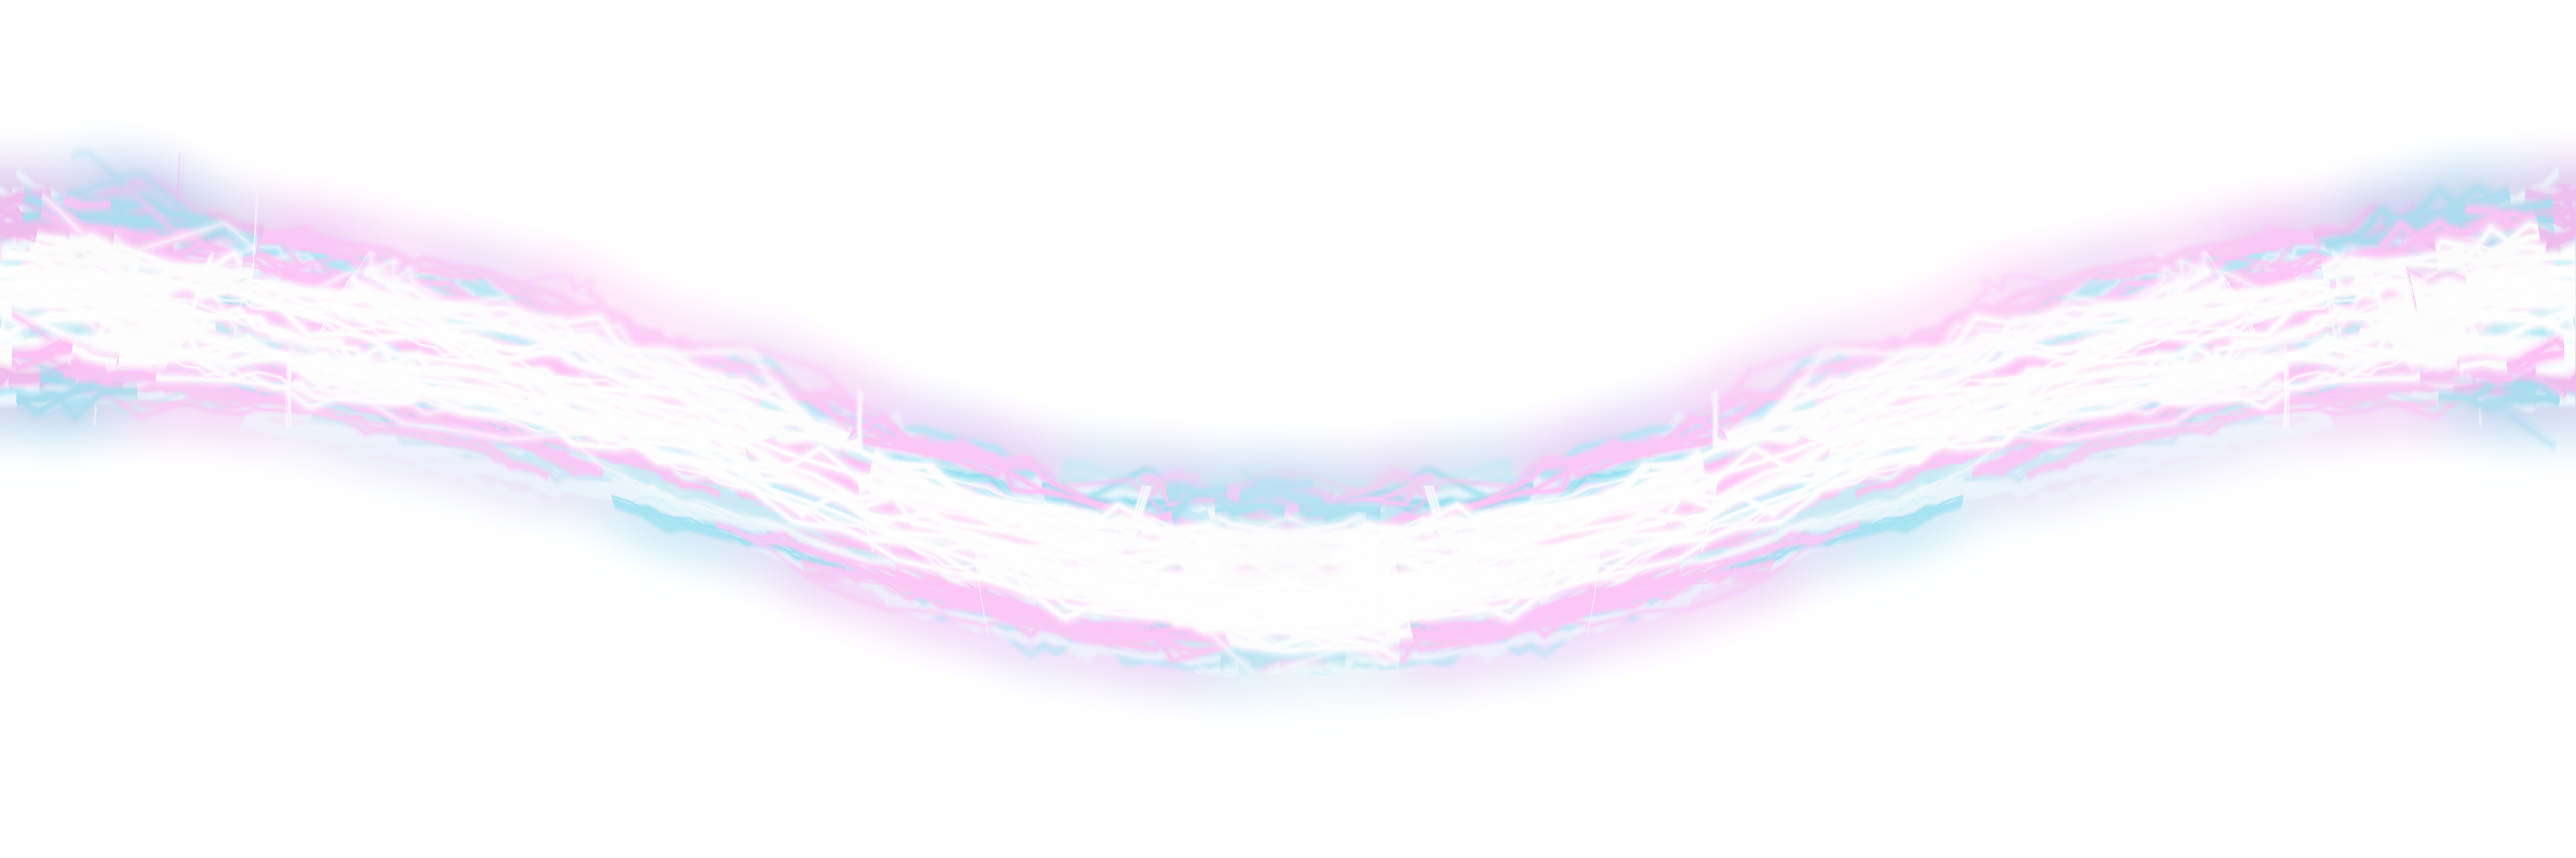
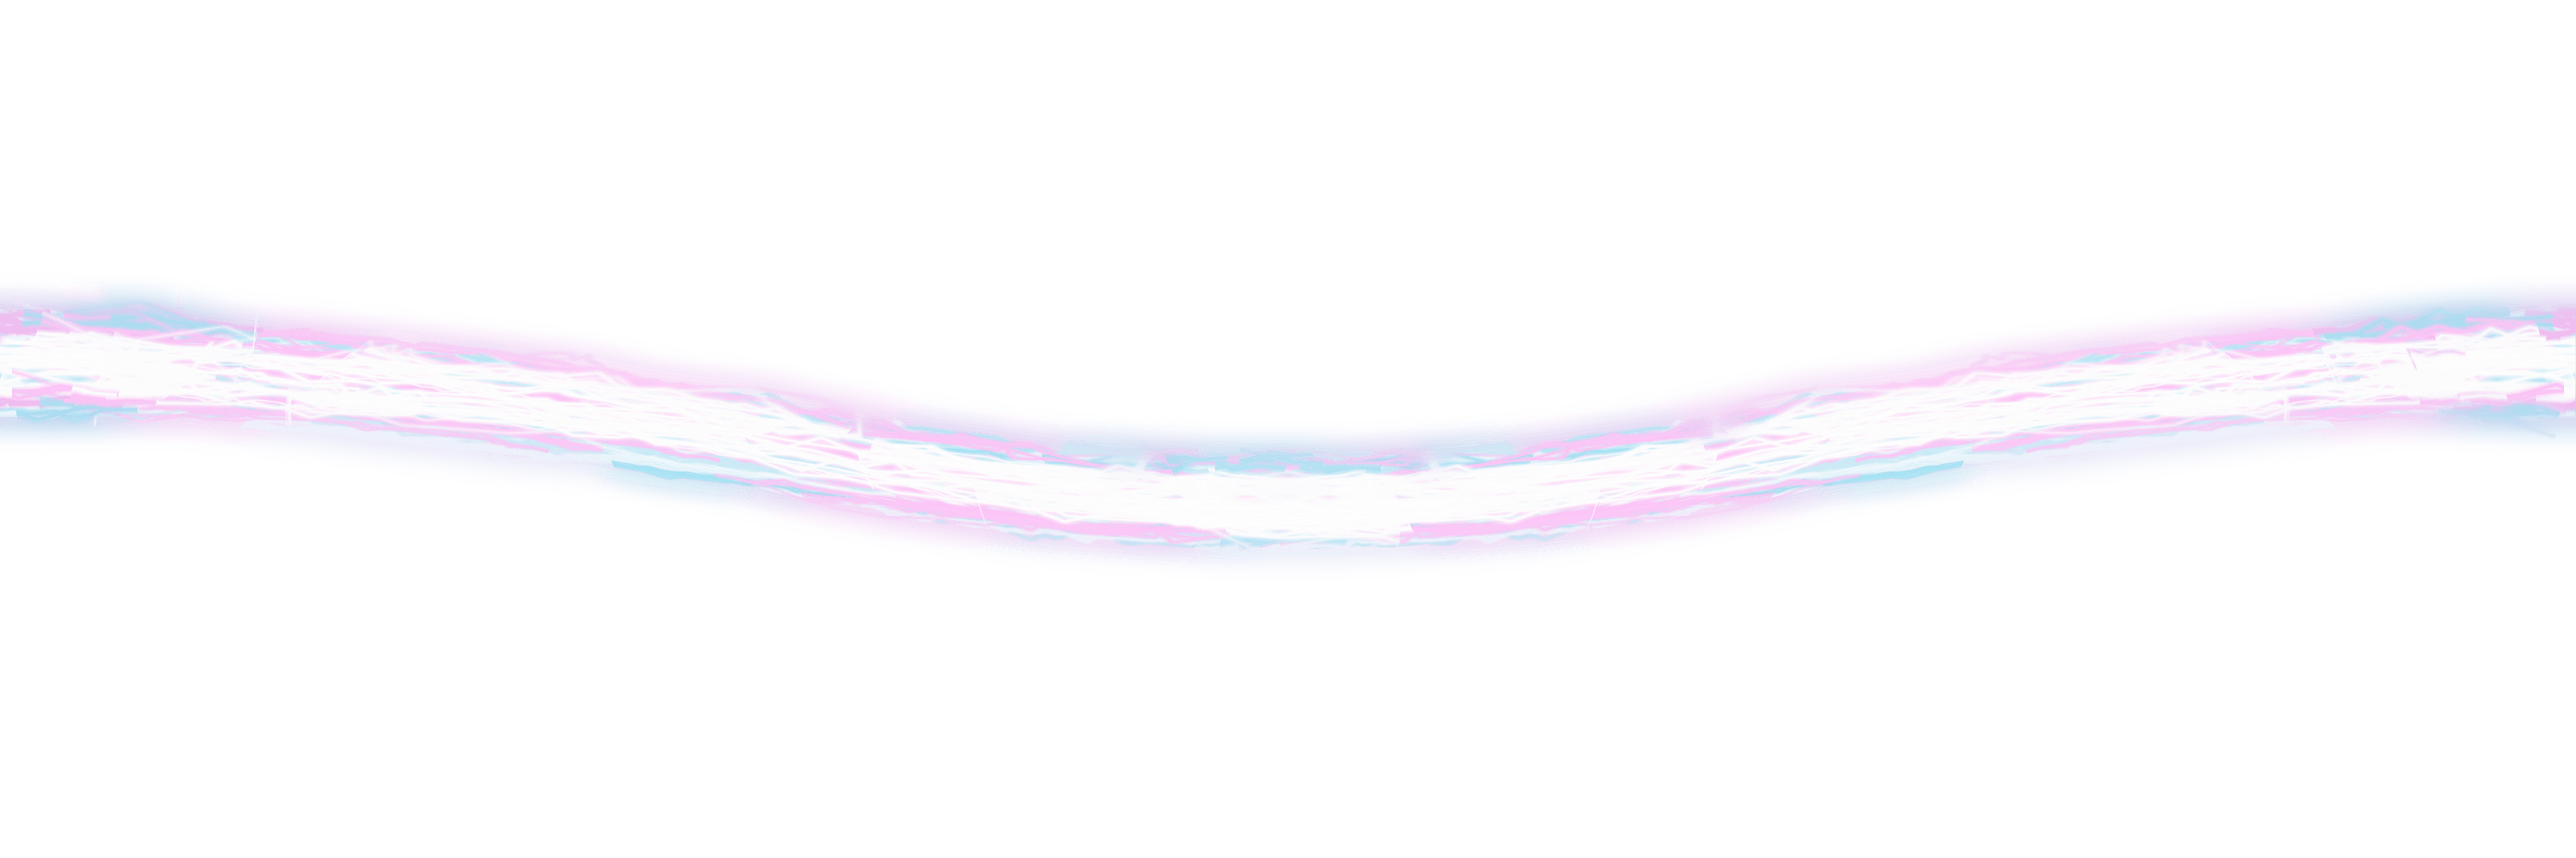
Events Timeline Image Reduced File Size

Changed region(s): [[0.0, 0.155, 1.0, 0.806]]

diff --git a/front-end/src/pages/Events/Timeline/Timeline.css b/front-end/src/pages/Events/Timeline/Timeline.css
@@ -57,7 +57,7 @@
 	min-width: 100%;
 	width: max-content;
 	height: 100%;
-	background: url("../../../content/timeline3.png");
+	background: url("../../../content/timeline.png");
 	background-repeat: repeat-x;
 	background-size: var(--timelineWidth);
 	background-position: 0 center;
@@ -74,7 +74,7 @@
 	min-width: 100%;
 	width: max-content;
 	height: 100%;
-	background: url("../../../content/timeline3.png");
+	background: url("../../../content/timeline.png");
 	background-repeat: repeat-x;
 	background-size: var(--timelineWidth);
 	background-position: 0 center;
